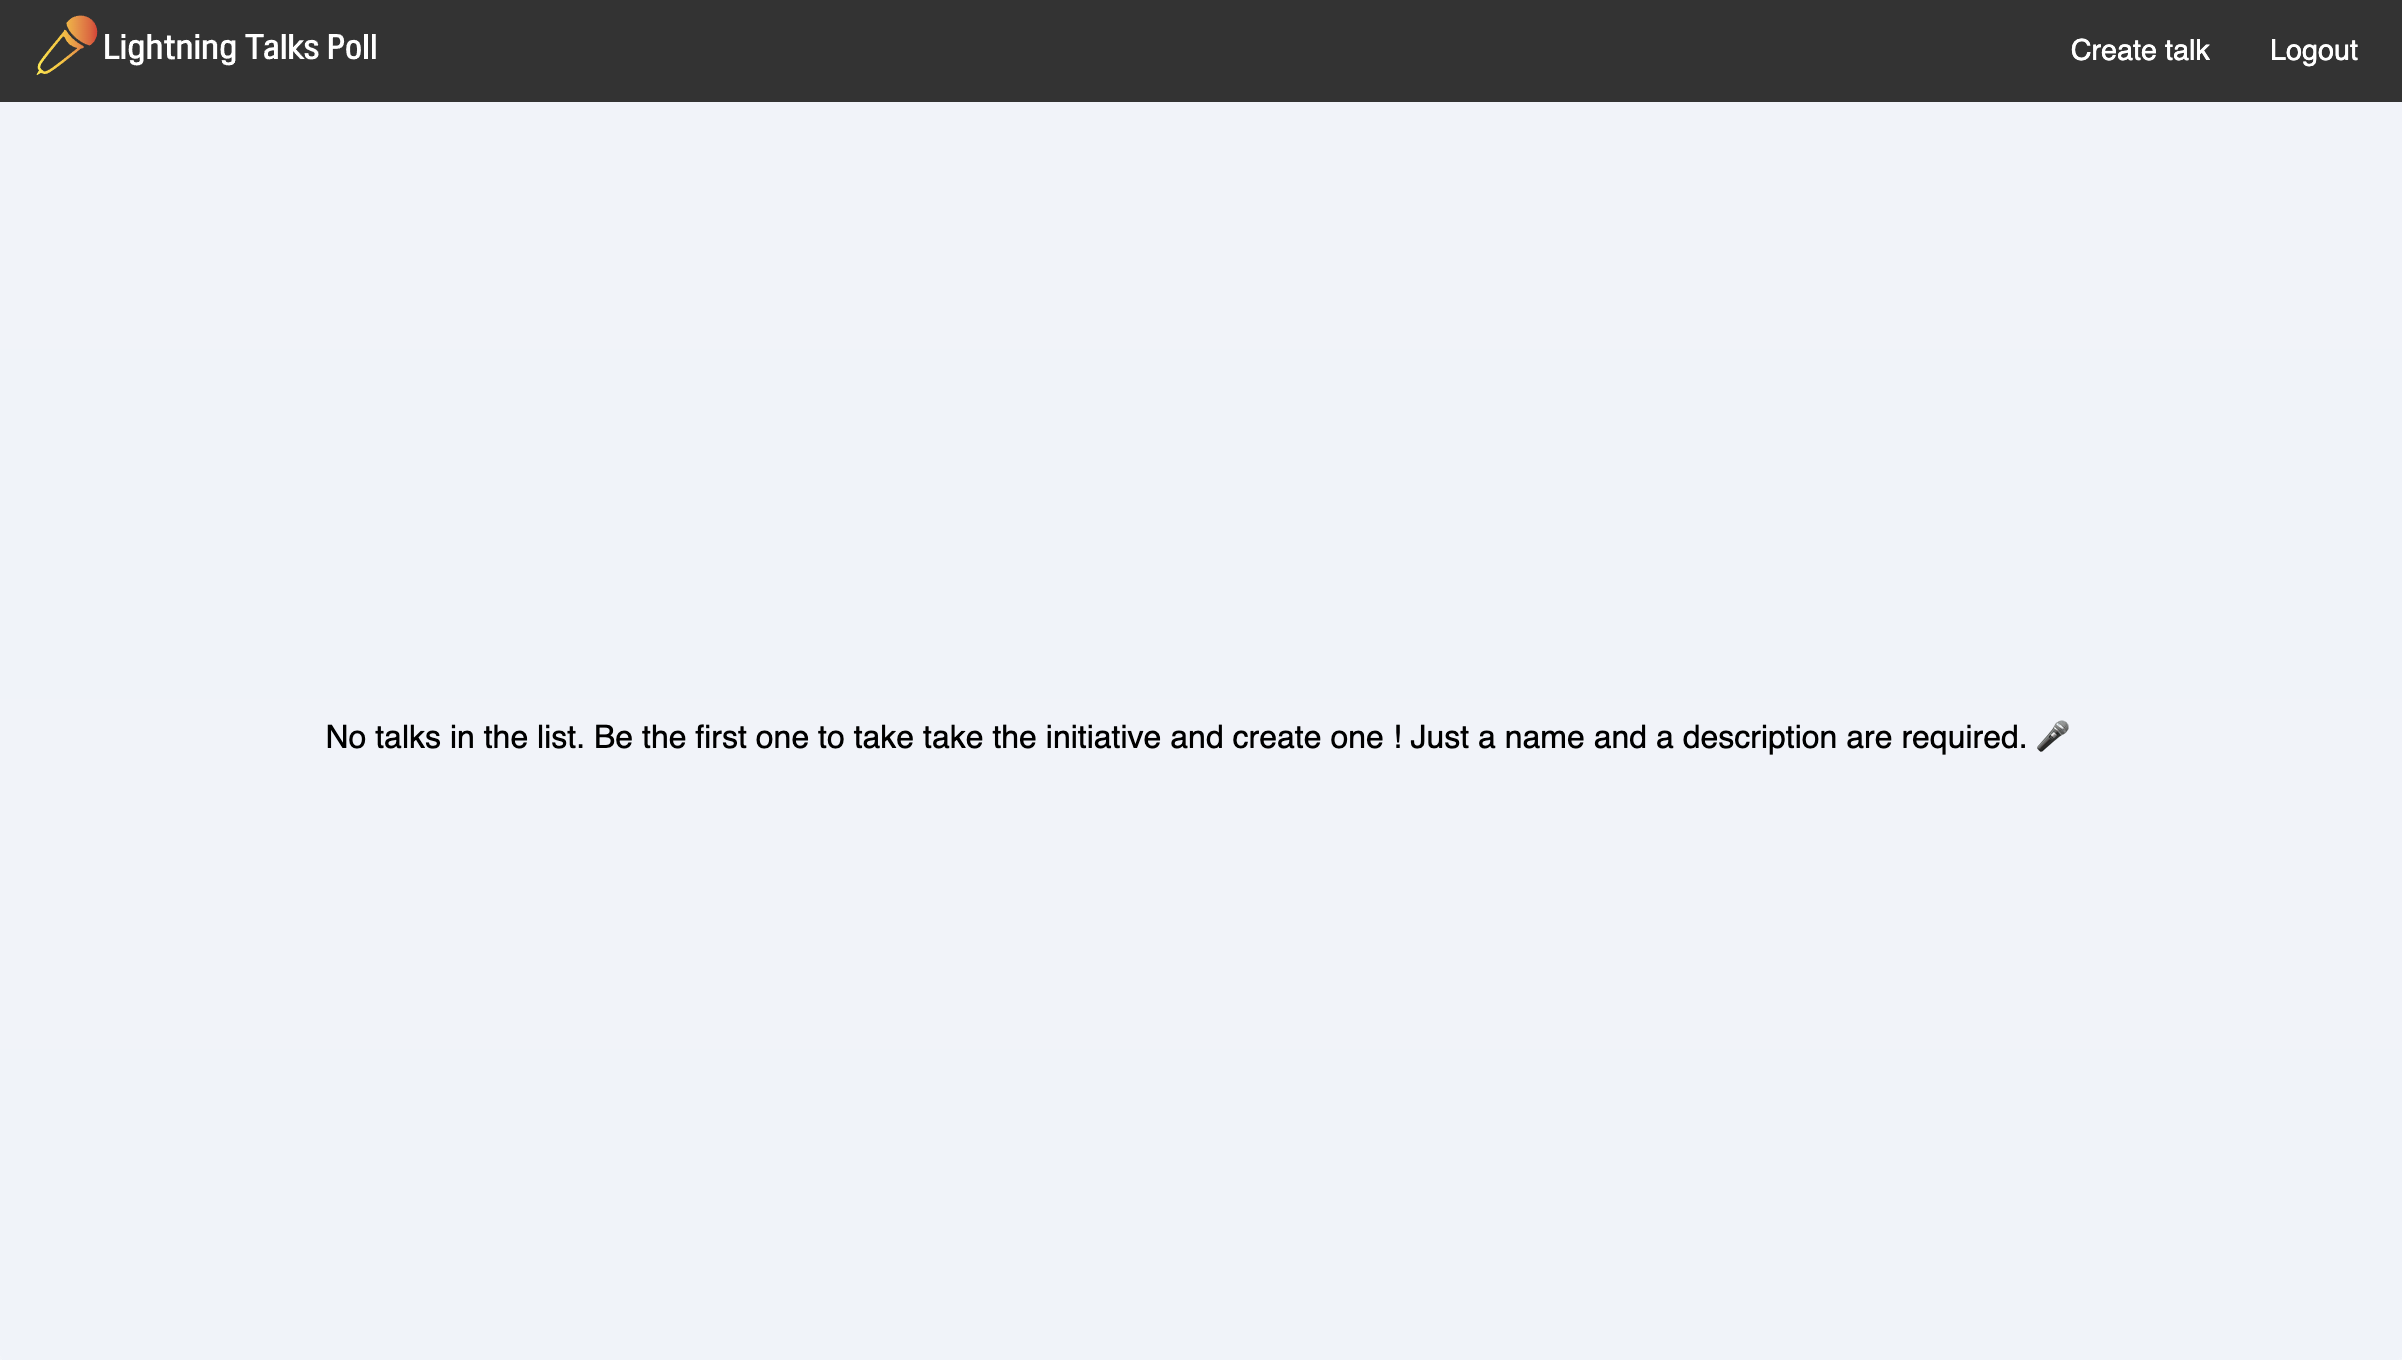
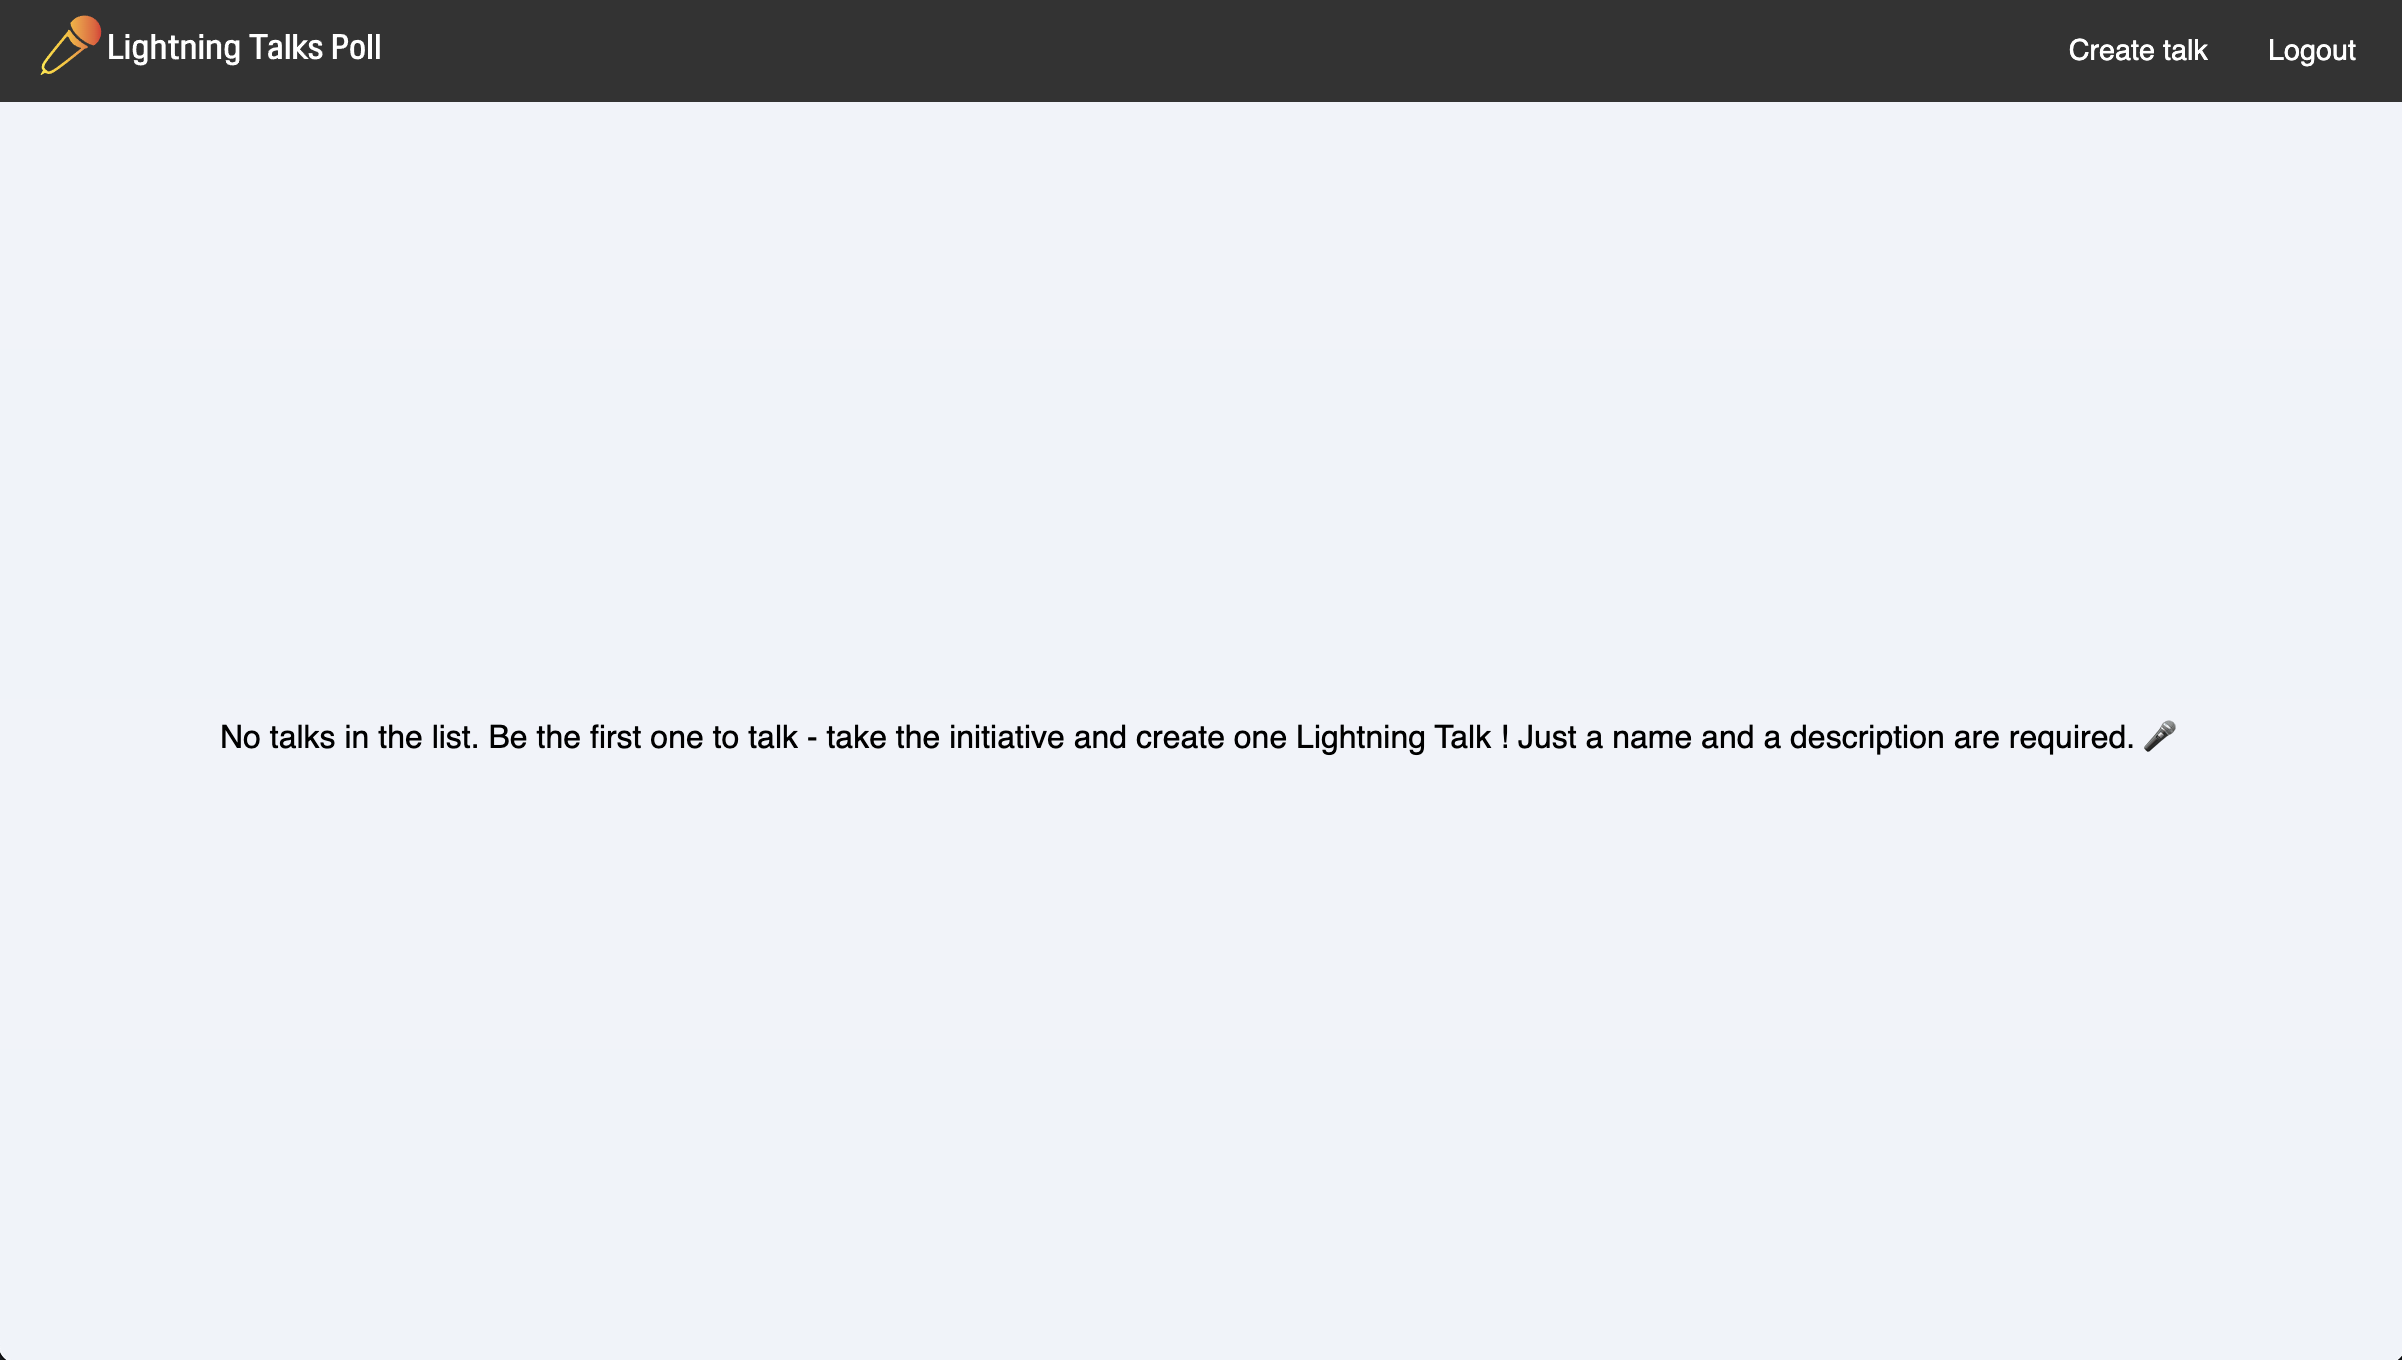
:bug: Fix typo in message displayed when no talks have been added

diff --git a/frontend/src/views/Talks/index.tsx b/frontend/src/views/Talks/index.tsx
@@ -71,7 +71,8 @@ function Talks(props: TalksProps): ReactElement {
         <Centered>
           {props.apiTalksListReducer.loading ? 'Loading...' :
           ` No talks in the list.
-          Be the first one to take take the initiative and create one ! 
+          Be the first one to talk - take the initiative 
+          and create one Lightning Talk ! 
           Just a name and a description are required. 🎤`}
         </Centered>
       </Container>:(Object.values(
